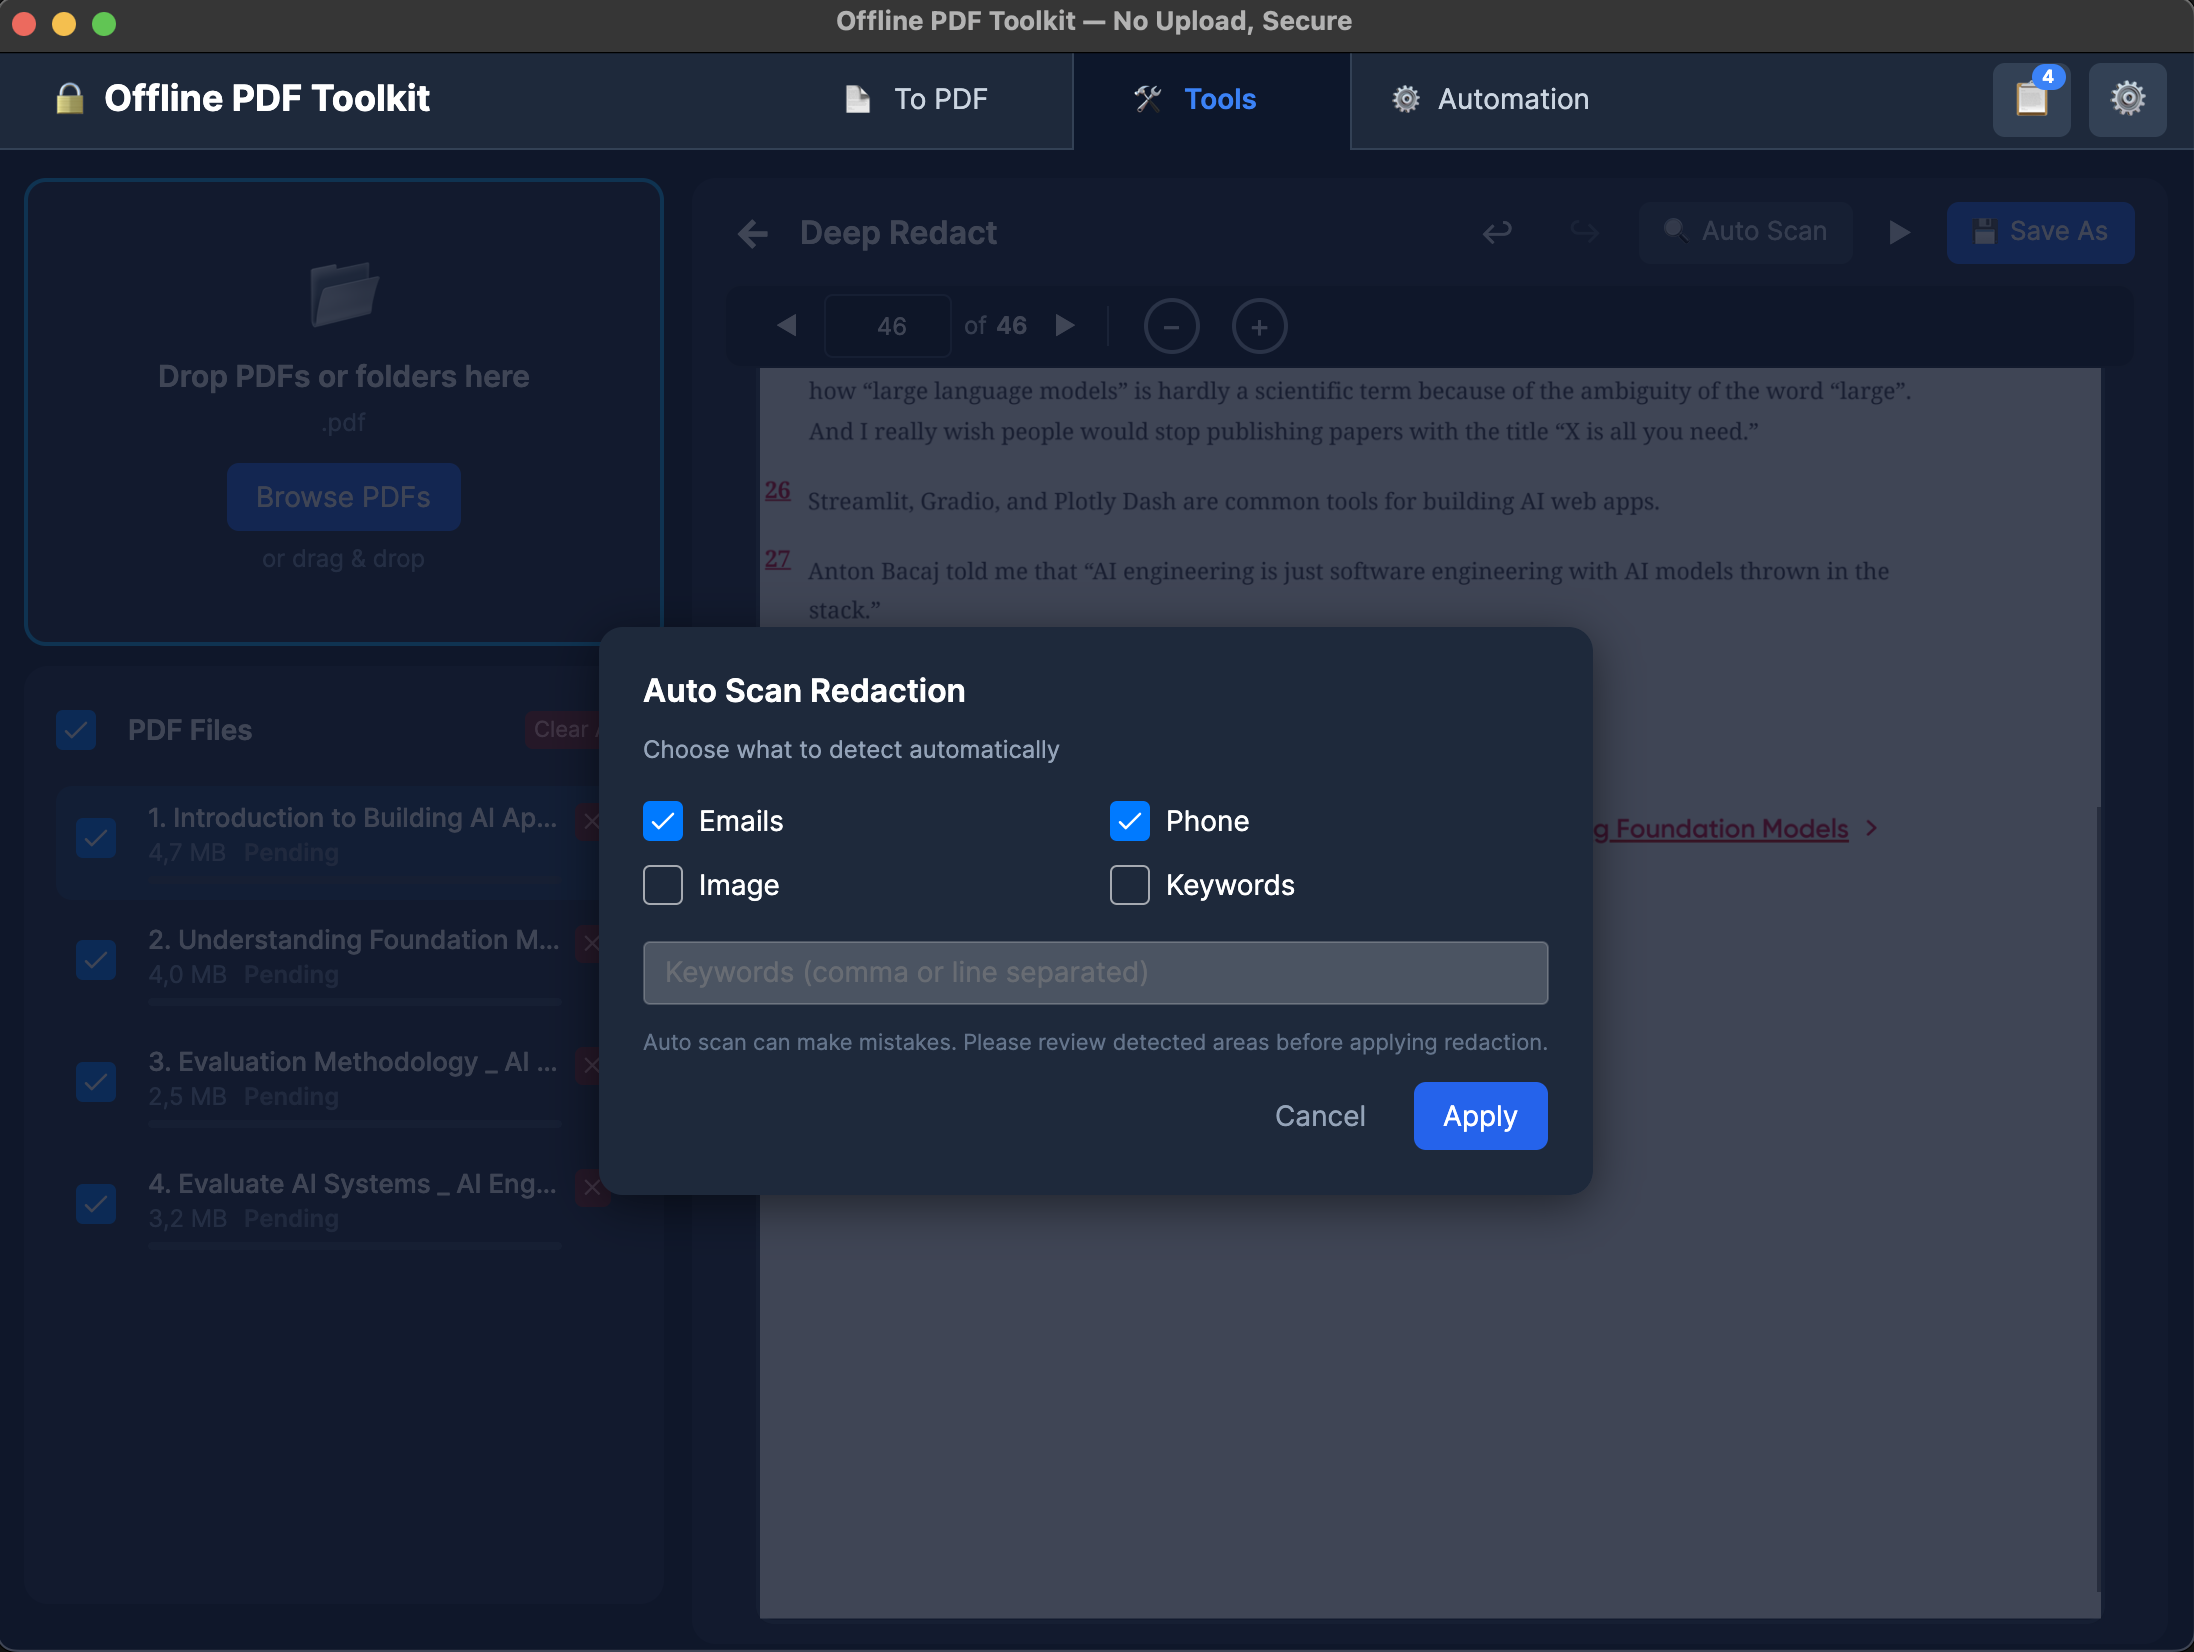
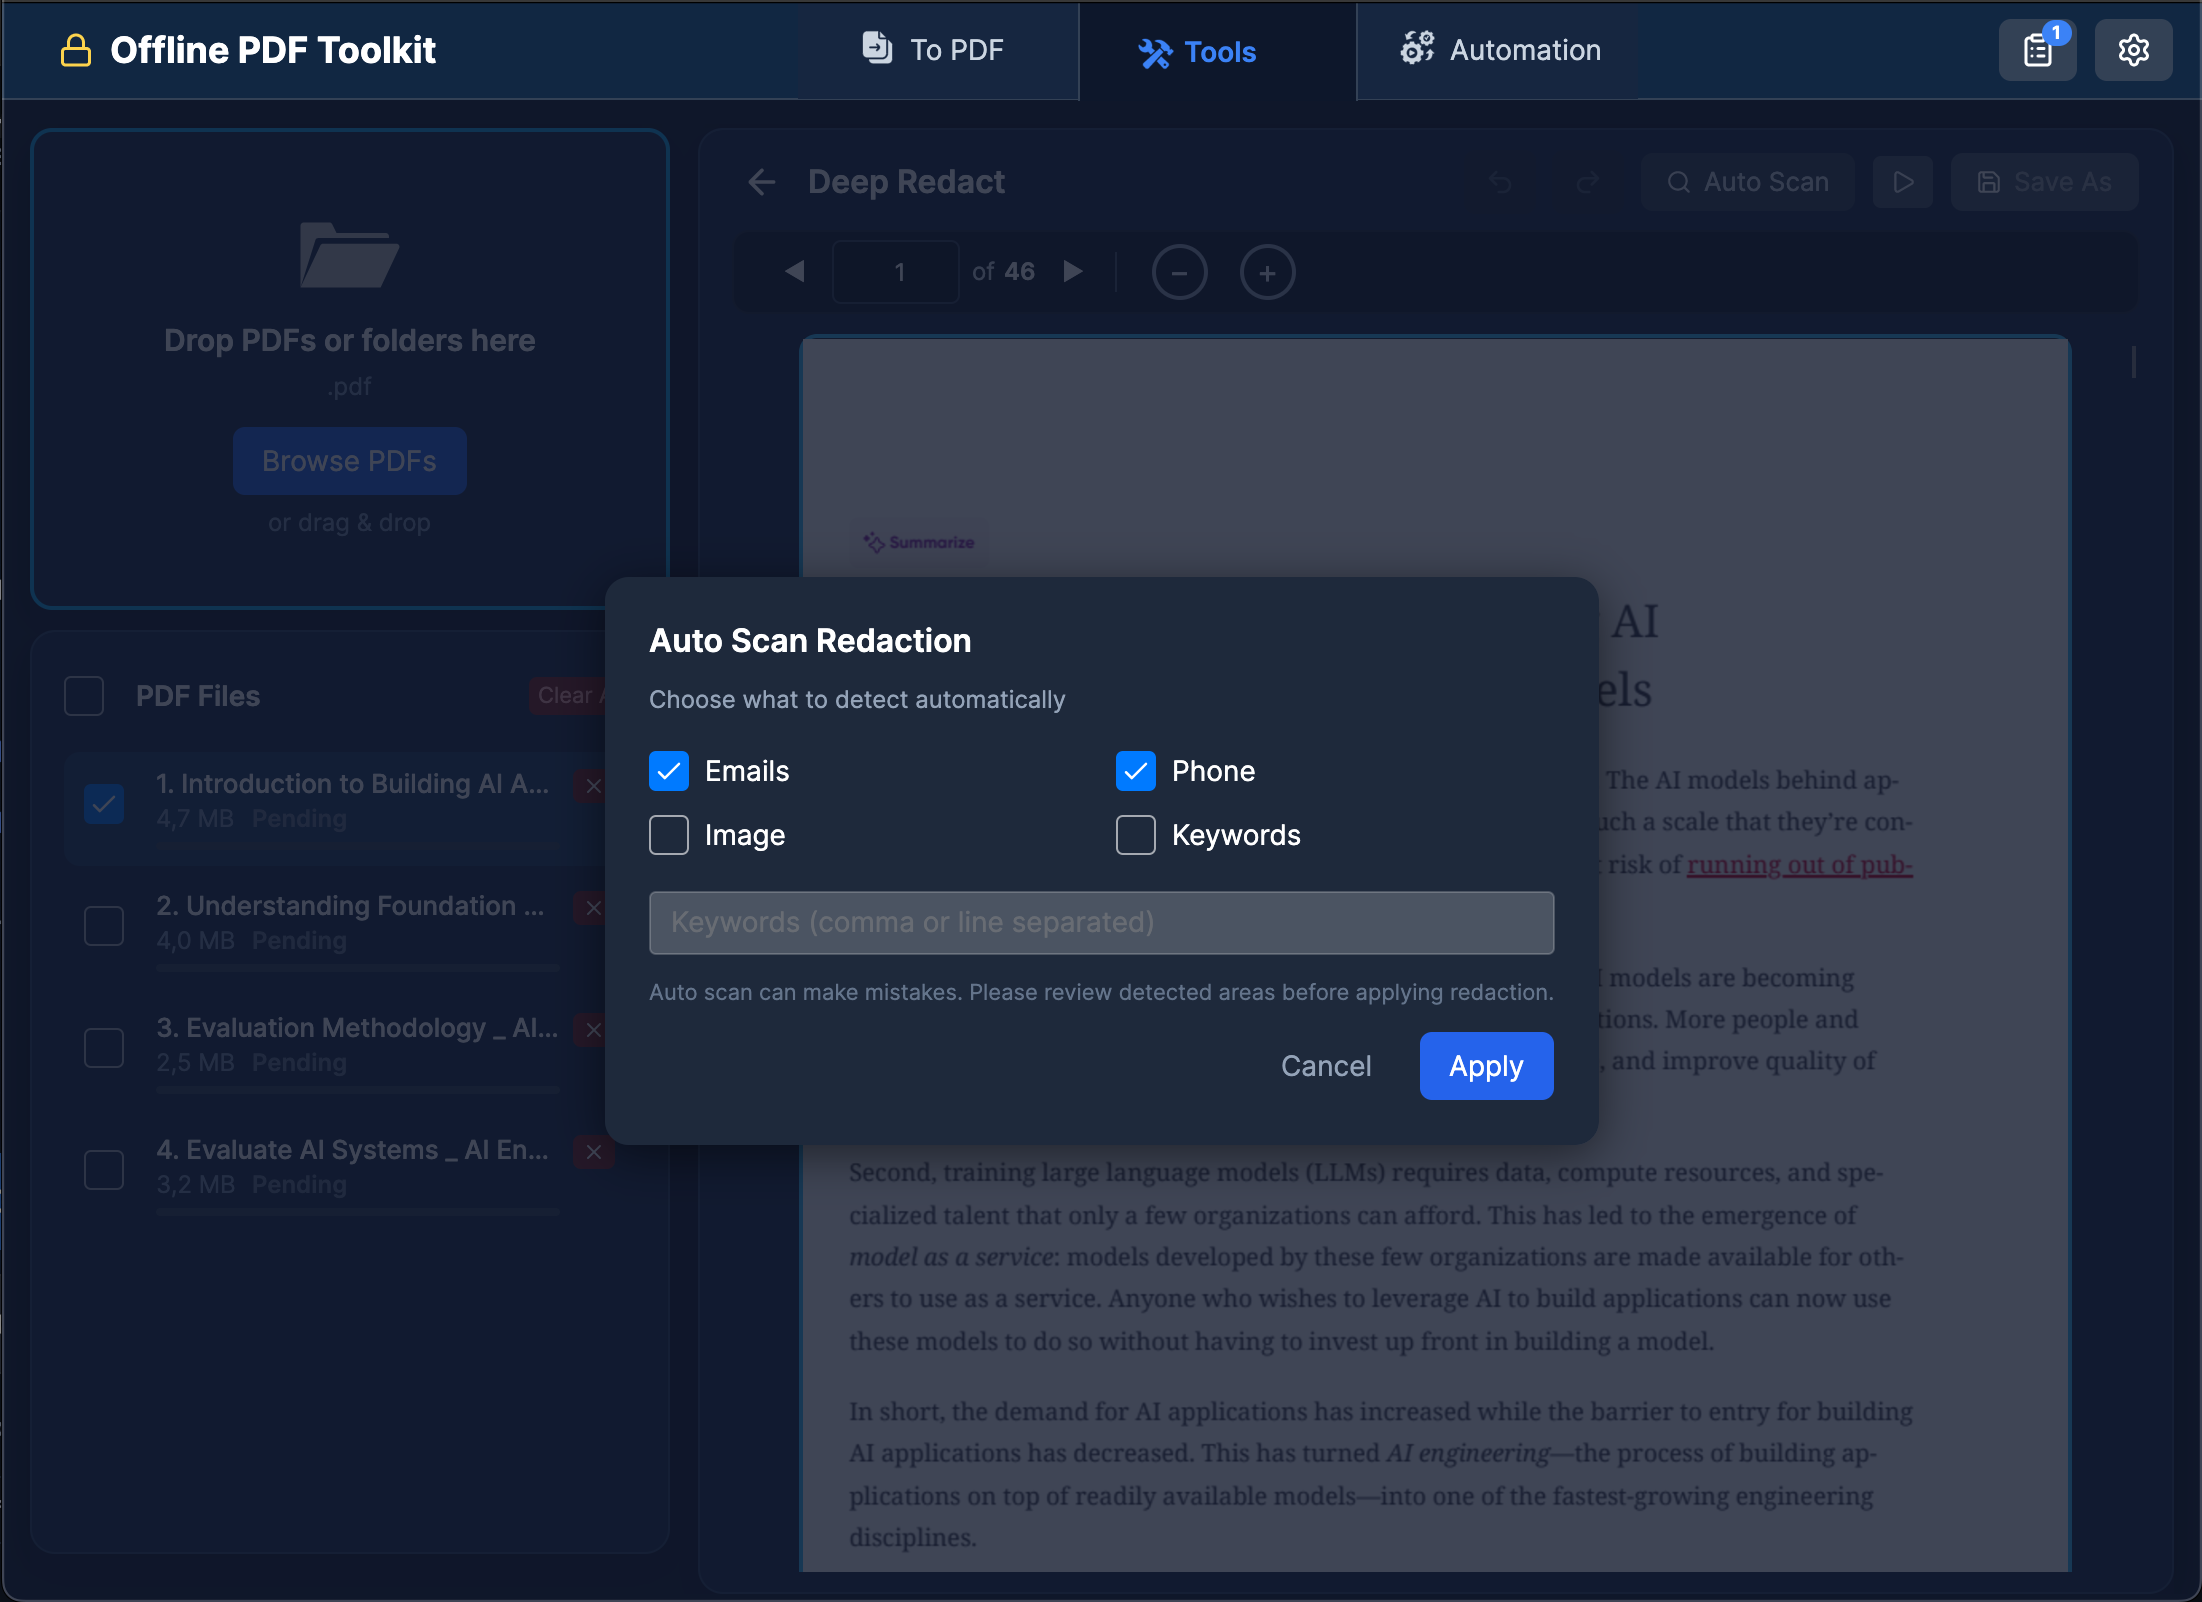
Up to date

diff --git a/deep-redact-pdf/index.html b/deep-redact-pdf/index.html
@@ -47,12 +47,38 @@
   </header>
 
   <section class="hero">
-    <img class="hero__icon" src="../assets/icon.png" alt="Offline PDF Toolkit icon" loading="lazy" />
-    <h1 class="hero__title">Deep <span>Redact PDF</span></h1>
-    <p class="hero__sub">Permanently remove sensitive PDF content offline. Auto scan by email, phone, image, and keyword, then review before applying.</p>
-    <div class="download-group" id="download">
-      <a class="btn btn--win" href="https://apps.microsoft.com/detail/9N2R3LXXJN6P" target="_blank" rel="noopener noreferrer">Get on Microsoft Store</a>
-      <a class="btn btn--mac" href="https://apps.apple.com/app/offline-pdf-toolkit/id6761170707" target="_blank" rel="noopener noreferrer">Get it on Mac App Store</a>
+    <div class="hero__content">
+      <div class="hero__copy">
+        <div class="hero__eyebrow">Private desktop PDF tools</div>
+        <h1 class="hero__title">Deep <span>Redact PDF</span></h1>
+        <p class="hero__sub">Permanently remove sensitive PDF content offline. Auto scan by email, phone, image, and keyword, then review before applying.</p>
+        <div class="download-group" id="download">
+          <a class="btn btn--win" href="https://apps.microsoft.com/detail/9N2R3LXXJN6P" target="_blank" rel="noopener noreferrer">
+            <svg width="18" height="18" viewBox="0 0 24 24" fill="currentColor" aria-hidden="true">
+              <path d="M2 3.5L11 2v9H2v-7.5zM13 1.8l9-1.3V11h-9V1.8zM2 13h9v9L2 20.7V13zM13 13h9v9.5l-9-1.3V13z"/>
+            </svg>
+            Get on Microsoft Store
+          </a>
+          <a class="btn btn--mac" href="https://apps.apple.com/app/offline-pdf-toolkit/id6761170707" target="_blank" rel="noopener noreferrer">
+            <svg width="18" height="18" viewBox="0 0 24 24" fill="currentColor" aria-hidden="true">
+              <path d="M18.71 19.5c-.83 1.24-1.71 2.45-3.05 2.47-1.34.03-1.77-.79-3.29-.79-1.53 0-2 .77-3.27.82-1.31.05-2.3-1.32-3.14-2.53C4.25 17 2.94 12.45 4.7 9.39c.87-1.52 2.43-2.48 4.12-2.51 1.28-.02 2.5.87 3.29.87.78 0 2.26-1.07 3.8-.91.65.03 2.47.26 3.64 1.98l-.09.06c-.22.15-2.18 1.27-2.16 3.8.03 3.02 2.65 4.03 2.68 4.04l-.07.28zM13 3.5c.73-.83 1.94-1.46 2.94-1.5.13 1.17-.34 2.35-1.04 3.19-.69.85-1.83 1.51-2.95 1.42-.15-1.15.41-2.35 1.05-3.11z"/>
+            </svg>
+            Get on Mac App Store
+          </a>
+        </div>
+        <p class="download-note">One-time purchase. No subscription. No account required.</p>
+        <div class="hero__chips" aria-label="Key benefits">
+          <span class="chip">100% Offline</span>
+          <span class="chip">No Upload</span>
+          <span class="chip">Free to Get Started</span>
+          <span class="chip">Windows + macOS</span>
+        </div>
+      </div>
+      <div class="hero__visual" aria-label="Offline PDF Toolkit app preview">
+        <div class="hero__frame">
+          <img src="../assets/screenshots/pic-raw-2.png" alt="Offline PDF Toolkit desktop app showing PDF tools" loading="eager" />
+        </div>
+      </div>
     </div>
   </section>
 

diff --git a/batch-pdf-tools/index.html b/batch-pdf-tools/index.html
@@ -39,7 +39,41 @@
 </head>
 <body>
   <header class="site-header"><div class="site-header__inner"><a class="brand" href="/"><img src="../assets/icon.png" alt="Offline PDF Toolkit" /><span class="brand__text"><strong>Offline PDF Toolkit</strong><small>ZERO UPLOAD · 100% LOCAL</small></span></a><nav class="nav-links"><a href="../#tools">PDF Tools</a><a href="../support/">About</a><a href="../privacy/">Privacy</a></nav><a class="btn btn--win header-cta smart-store-link" href="https://apps.microsoft.com/detail/9N2R3LXXJN6P" data-win-url="https://apps.microsoft.com/detail/9N2R3LXXJN6P" data-mac-url="https://apps.apple.com/app/offline-pdf-toolkit/id6761170707" target="_blank" rel="noopener noreferrer">Get it on your app store</a></div></header>
-  <section class="hero"><img class="hero__icon" src="../assets/icon.png" alt="Offline PDF Toolkit icon" loading="lazy" /><h1 class="hero__title">Batch PDF <span>Automation</span></h1><p class="hero__sub">Create multiple automation tasks, watch folders, and process files in queue order with local-only execution.</p><div class="download-group" id="download"><a class="btn btn--win" href="https://apps.microsoft.com/detail/9N2R3LXXJN6P" target="_blank" rel="noopener noreferrer">Get on Microsoft Store</a><a class="btn btn--mac" href="https://apps.apple.com/app/offline-pdf-toolkit/id6761170707" target="_blank" rel="noopener noreferrer">Get it on Mac App Store</a></div></section>
+  <section class="hero">
+    <div class="hero__content">
+      <div class="hero__copy">
+        <div class="hero__eyebrow">Private desktop PDF tools</div>
+        <h1 class="hero__title">Batch PDF <span>Automation</span></h1>
+        <p class="hero__sub">Create multiple automation tasks, watch folders, and process files in queue order with local-only execution.</p>
+        <div class="download-group" id="download">
+          <a class="btn btn--win" href="https://apps.microsoft.com/detail/9N2R3LXXJN6P" target="_blank" rel="noopener noreferrer">
+            <svg width="18" height="18" viewBox="0 0 24 24" fill="currentColor" aria-hidden="true">
+              <path d="M2 3.5L11 2v9H2v-7.5zM13 1.8l9-1.3V11h-9V1.8zM2 13h9v9L2 20.7V13zM13 13h9v9.5l-9-1.3V13z"/>
+            </svg>
+            Get on Microsoft Store
+          </a>
+          <a class="btn btn--mac" href="https://apps.apple.com/app/offline-pdf-toolkit/id6761170707" target="_blank" rel="noopener noreferrer">
+            <svg width="18" height="18" viewBox="0 0 24 24" fill="currentColor" aria-hidden="true">
+              <path d="M18.71 19.5c-.83 1.24-1.71 2.45-3.05 2.47-1.34.03-1.77-.79-3.29-.79-1.53 0-2 .77-3.27.82-1.31.05-2.3-1.32-3.14-2.53C4.25 17 2.94 12.45 4.7 9.39c.87-1.52 2.43-2.48 4.12-2.51 1.28-.02 2.5.87 3.29.87.78 0 2.26-1.07 3.8-.91.65.03 2.47.26 3.64 1.98l-.09.06c-.22.15-2.18 1.27-2.16 3.8.03 3.02 2.65 4.03 2.68 4.04l-.07.28zM13 3.5c.73-.83 1.94-1.46 2.94-1.5.13 1.17-.34 2.35-1.04 3.19-.69.85-1.83 1.51-2.95 1.42-.15-1.15.41-2.35 1.05-3.11z"/>
+            </svg>
+            Get on Mac App Store
+          </a>
+        </div>
+        <p class="download-note">One-time purchase. No subscription. No account required.</p>
+        <div class="hero__chips" aria-label="Key benefits">
+          <span class="chip">100% Offline</span>
+          <span class="chip">No Upload</span>
+          <span class="chip">Free to Get Started</span>
+          <span class="chip">Windows + macOS</span>
+        </div>
+      </div>
+      <div class="hero__visual" aria-label="Offline PDF Toolkit app preview">
+        <div class="hero__frame">
+          <img src="../assets/screenshots/pic-raw-2.png" alt="Offline PDF Toolkit desktop app showing PDF tools" loading="eager" />
+        </div>
+      </div>
+    </div>
+  </section>
   <section class="section"><h2 class="section__title">Automation workflow</h2><div class="tools-grid"><article class="tool-item"><h4>Watch Folder</h4><p>Automatically detect newly dropped files.</p></article><article class="tool-item"><h4>Queue Processing</h4><p>Process jobs sequentially for stable output.</p></article><article class="tool-item"><h4>Per-task Rules</h4><p>Configure output, filters, duplicate handling, and archive behavior.</p></article></div></section>
 
   <section class="section section--tight">

diff --git a/offline-pdf-signature/index.html b/offline-pdf-signature/index.html
@@ -39,7 +39,41 @@
 </head>
 <body>
   <header class="site-header"><div class="site-header__inner"><a class="brand" href="/"><img src="../assets/icon.png" alt="Offline PDF Toolkit" /><span class="brand__text"><strong>Offline PDF Toolkit</strong><small>ZERO UPLOAD · 100% LOCAL</small></span></a><nav class="nav-links"><a href="../#tools">PDF Tools</a><a href="../support/">About</a><a href="../privacy/">Privacy</a></nav><a class="btn btn--win header-cta smart-store-link" href="https://apps.microsoft.com/detail/9N2R3LXXJN6P" data-win-url="https://apps.microsoft.com/detail/9N2R3LXXJN6P" data-mac-url="https://apps.apple.com/app/offline-pdf-toolkit/id6761170707" target="_blank" rel="noopener noreferrer">Get it on your app store</a></div></header>
-  <section class="hero"><img class="hero__icon" src="../assets/icon.png" alt="Offline PDF Toolkit icon" loading="lazy" /><h1 class="hero__title">Offline PDF <span>Signature</span></h1><p class="hero__sub">Create drawn signatures and apply digital certificate signing directly on PDFs. Everything stays local.</p><div class="download-group" id="download"><a class="btn btn--win" href="https://apps.microsoft.com/detail/9N2R3LXXJN6P" target="_blank" rel="noopener noreferrer">Get on Microsoft Store</a><a class="btn btn--mac" href="https://apps.apple.com/app/offline-pdf-toolkit/id6761170707" target="_blank" rel="noopener noreferrer">Get it on Mac App Store</a></div></section>
+  <section class="hero">
+    <div class="hero__content">
+      <div class="hero__copy">
+        <div class="hero__eyebrow">Private desktop PDF tools</div>
+        <h1 class="hero__title">Offline PDF <span>Signature</span></h1>
+        <p class="hero__sub">Create drawn signatures and apply digital certificate signing directly on PDFs. Everything stays local.</p>
+        <div class="download-group" id="download">
+          <a class="btn btn--win" href="https://apps.microsoft.com/detail/9N2R3LXXJN6P" target="_blank" rel="noopener noreferrer">
+            <svg width="18" height="18" viewBox="0 0 24 24" fill="currentColor" aria-hidden="true">
+              <path d="M2 3.5L11 2v9H2v-7.5zM13 1.8l9-1.3V11h-9V1.8zM2 13h9v9L2 20.7V13zM13 13h9v9.5l-9-1.3V13z"/>
+            </svg>
+            Get on Microsoft Store
+          </a>
+          <a class="btn btn--mac" href="https://apps.apple.com/app/offline-pdf-toolkit/id6761170707" target="_blank" rel="noopener noreferrer">
+            <svg width="18" height="18" viewBox="0 0 24 24" fill="currentColor" aria-hidden="true">
+              <path d="M18.71 19.5c-.83 1.24-1.71 2.45-3.05 2.47-1.34.03-1.77-.79-3.29-.79-1.53 0-2 .77-3.27.82-1.31.05-2.3-1.32-3.14-2.53C4.25 17 2.94 12.45 4.7 9.39c.87-1.52 2.43-2.48 4.12-2.51 1.28-.02 2.5.87 3.29.87.78 0 2.26-1.07 3.8-.91.65.03 2.47.26 3.64 1.98l-.09.06c-.22.15-2.18 1.27-2.16 3.8.03 3.02 2.65 4.03 2.68 4.04l-.07.28zM13 3.5c.73-.83 1.94-1.46 2.94-1.5.13 1.17-.34 2.35-1.04 3.19-.69.85-1.83 1.51-2.95 1.42-.15-1.15.41-2.35 1.05-3.11z"/>
+            </svg>
+            Get on Mac App Store
+          </a>
+        </div>
+        <p class="download-note">One-time purchase. No subscription. No account required.</p>
+        <div class="hero__chips" aria-label="Key benefits">
+          <span class="chip">100% Offline</span>
+          <span class="chip">No Upload</span>
+          <span class="chip">Free to Get Started</span>
+          <span class="chip">Windows + macOS</span>
+        </div>
+      </div>
+      <div class="hero__visual" aria-label="Offline PDF Toolkit app preview">
+        <div class="hero__frame">
+          <img src="../assets/screenshots/pic-raw-2.png" alt="Offline PDF Toolkit desktop app showing PDF tools" loading="eager" />
+        </div>
+      </div>
+    </div>
+  </section>
   <section class="section"><h2 class="section__title">Signature features</h2><div class="tools-grid"><article class="tool-item"><h4>Draw or Import</h4><p>Create signature by drawing or image import.</p></article><article class="tool-item"><h4>Saved Library</h4><p>Store multiple signatures and reuse quickly.</p></article><article class="tool-item"><h4>Precise Placement</h4><p>Position and scale signatures on any page.</p></article><article class="tool-item"><h4>Digital Sign</h4><p>Apply certificate-based signatures with .p12/.pfx files.</p></article></div></section>
 
   <section class="section section--tight">

diff --git a/organize-pdf-pages/index.html b/organize-pdf-pages/index.html
@@ -39,7 +39,41 @@
 </head>
 <body>
   <header class="site-header"><div class="site-header__inner"><a class="brand" href="/"><img src="../assets/icon.png" alt="Offline PDF Toolkit" /><span class="brand__text"><strong>Offline PDF Toolkit</strong><small>ZERO UPLOAD · 100% LOCAL</small></span></a><nav class="nav-links"><a href="../#tools">PDF Tools</a><a href="../support/">About</a><a href="../privacy/">Privacy</a></nav><a class="btn btn--win header-cta smart-store-link" href="https://apps.microsoft.com/detail/9N2R3LXXJN6P" data-win-url="https://apps.microsoft.com/detail/9N2R3LXXJN6P" data-mac-url="https://apps.apple.com/app/offline-pdf-toolkit/id6761170707" target="_blank" rel="noopener noreferrer">Get it on your app store</a></div></header>
-  <section class="hero"><img class="hero__icon" src="../assets/icon.png" alt="Offline PDF Toolkit icon" loading="lazy" /><h1 class="hero__title">Organize PDF <span>Pages</span></h1><p class="hero__sub">Use thumbnails to reorder, split, merge, rotate, and remove pages. Everything runs locally with no upload.</p><div class="download-group" id="download"><a class="btn btn--win" href="https://apps.microsoft.com/detail/9N2R3LXXJN6P" target="_blank" rel="noopener noreferrer">Get on Microsoft Store</a><a class="btn btn--mac" href="https://apps.apple.com/app/offline-pdf-toolkit/id6761170707" target="_blank" rel="noopener noreferrer">Get it on Mac App Store</a></div></section>
+  <section class="hero">
+    <div class="hero__content">
+      <div class="hero__copy">
+        <div class="hero__eyebrow">Private desktop PDF tools</div>
+        <h1 class="hero__title">Organize PDF <span>Pages</span></h1>
+        <p class="hero__sub">Use thumbnails to reorder, split, merge, rotate, and remove pages. Everything runs locally with no upload.</p>
+        <div class="download-group" id="download">
+          <a class="btn btn--win" href="https://apps.microsoft.com/detail/9N2R3LXXJN6P" target="_blank" rel="noopener noreferrer">
+            <svg width="18" height="18" viewBox="0 0 24 24" fill="currentColor" aria-hidden="true">
+              <path d="M2 3.5L11 2v9H2v-7.5zM13 1.8l9-1.3V11h-9V1.8zM2 13h9v9L2 20.7V13zM13 13h9v9.5l-9-1.3V13z"/>
+            </svg>
+            Get on Microsoft Store
+          </a>
+          <a class="btn btn--mac" href="https://apps.apple.com/app/offline-pdf-toolkit/id6761170707" target="_blank" rel="noopener noreferrer">
+            <svg width="18" height="18" viewBox="0 0 24 24" fill="currentColor" aria-hidden="true">
+              <path d="M18.71 19.5c-.83 1.24-1.71 2.45-3.05 2.47-1.34.03-1.77-.79-3.29-.79-1.53 0-2 .77-3.27.82-1.31.05-2.3-1.32-3.14-2.53C4.25 17 2.94 12.45 4.7 9.39c.87-1.52 2.43-2.48 4.12-2.51 1.28-.02 2.5.87 3.29.87.78 0 2.26-1.07 3.8-.91.65.03 2.47.26 3.64 1.98l-.09.06c-.22.15-2.18 1.27-2.16 3.8.03 3.02 2.65 4.03 2.68 4.04l-.07.28zM13 3.5c.73-.83 1.94-1.46 2.94-1.5.13 1.17-.34 2.35-1.04 3.19-.69.85-1.83 1.51-2.95 1.42-.15-1.15.41-2.35 1.05-3.11z"/>
+            </svg>
+            Get on Mac App Store
+          </a>
+        </div>
+        <p class="download-note">One-time purchase. No subscription. No account required.</p>
+        <div class="hero__chips" aria-label="Key benefits">
+          <span class="chip">100% Offline</span>
+          <span class="chip">No Upload</span>
+          <span class="chip">Free to Get Started</span>
+          <span class="chip">Windows + macOS</span>
+        </div>
+      </div>
+      <div class="hero__visual" aria-label="Offline PDF Toolkit app preview">
+        <div class="hero__frame">
+          <img src="../assets/screenshots/pic-raw-2.png" alt="Offline PDF Toolkit desktop app showing PDF tools" loading="eager" />
+        </div>
+      </div>
+    </div>
+  </section>
   <section class="section"><h2 class="section__title">Page manager capabilities</h2><div class="tools-grid"><article class="tool-item"><h4>Reorder</h4><p>Drag and drop pages into any order.</p></article><article class="tool-item"><h4>Split & Extract</h4><p>Export selected pages to new files.</p></article><article class="tool-item"><h4>Merge</h4><p>Combine multiple PDFs into one output.</p></article></div></section>
 
   <section class="section section--tight">